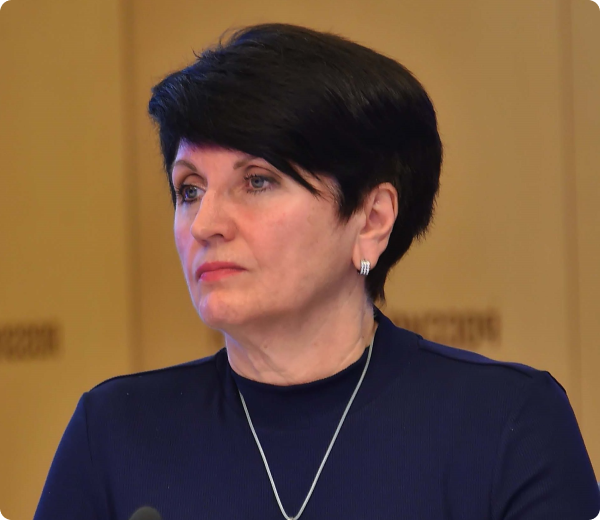
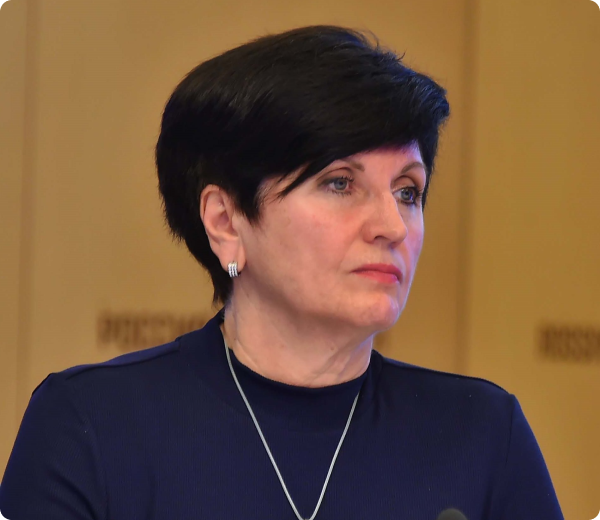
Внесены правки по спикерам и виззуалу

diff --git a/family53/css/style.scss b/family53/css/style.scss
@@ -1042,9 +1042,12 @@
                                                 display: flex;
                                                 align-items: center;
                                                 justify-content: center;
+                                                position: relative;
                                                 .avatar__img {
                                                     width: 100%;
                                                     height: auto;
+                                                    position: absolute;
+                                                    top: 0;
                                                 }
                                             }
                                             .post {
@@ -1976,6 +1979,11 @@
                                             width: 100%;
                                             max-width: 1110px;
                                         }
+                                        iframe {
+                                            width: 100%;
+                                            max-width: 1110px;
+                                            height: 624px;
+                                        }
                                     }
                                 }
                             }
@@ -2160,6 +2168,15 @@
                                     padding-top: 30px;
                                     .page-title {
                                         margin-bottom: 30px;
+                                    }
+                                    .translation-links {
+                                        .day {
+                                            iframe {
+                                                width: 100%;
+                                                max-width: 1110px;
+                                                height: 382px;
+                                            }
+                                        }
                                     }
                                 }
                             }
@@ -2536,6 +2553,15 @@
                                     padding-top: 20px;
                                     .page-title {
                                         margin-bottom: 20px;
+                                    }
+                                    .translation-links {
+                                        .day {
+                                            iframe {
+                                                width: 100%;
+                                                max-width: 1110px;
+                                                height: 258px;
+                                            }
+                                        }
                                     }
                                 }
                             }

diff --git a/family53/css/style.css b/family53/css/style.css
@@ -1437,11 +1437,14 @@ body {
   -webkit-box-pack: center;
       -ms-flex-pack: center;
           justify-content: center;
+  position: relative;
 }
 
 .speakers-block .more-block .more-popup .left .avatar .avatar__img {
   width: 100%;
   height: auto;
+  position: absolute;
+  top: 0;
 }
 
 .speakers-block .more-block .more-popup .left .post {
@@ -2688,6 +2691,12 @@ body {
   max-width: 1110px;
 }
 
+.links-page .translation-links .day iframe {
+  width: 100%;
+  max-width: 1110px;
+  height: 624px;
+}
+
 @media screen and (max-width: 1139px) and (min-width: 768px) {
   .desctop {
     display: none !important;
@@ -2890,6 +2899,11 @@ body {
   }
   .links-page .page-title {
     margin-bottom: 30px;
+  }
+  .links-page .translation-links .day iframe {
+    width: 100%;
+    max-width: 1110px;
+    height: 382px;
   }
 }
 
@@ -3328,6 +3342,11 @@ body {
   }
   .links-page .page-title {
     margin-bottom: 20px;
+  }
+  .links-page .translation-links .day iframe {
+    width: 100%;
+    max-width: 1110px;
+    height: 258px;
   }
 }
 /*# sourceMappingURL=style.css.map */

diff --git a/user-page/index.html b/user-page/index.html
@@ -10,7 +10,7 @@
 </head>
 
 <body>
-    <iframe width="1280" height="720" src="https://www.youtube.com/embed/WrlQw48royo" title="YouTube video player" frameborder="0" allow="accelerometer; autoplay; clipboard-write; encrypted-media; gyroscope; picture-in-picture" allowfullscreen></iframe>
+    <iframe width="1110" height="624" src="https://www.youtube.com/embed/WrlQw48royo" title="YouTube video player" frameborder="0" allow="accelerometer; autoplay; clipboard-write; encrypted-media; gyroscope; picture-in-picture" allowfullscreen></iframe>
     <header class="header  user-account">
         <div class="wrapper top-header desctop">
             <div class="logo"></div>

diff --git a/family53/main-page.php b/family53/main-page.php
@@ -41,7 +41,12 @@ get_header();
                 Желаю всем участникам конференции активной, плодотворной работы, реализации намеченных планов и новых успехов!<br><br>
                 </div>
 
-                <div class="comment-row revers">
+                <div class="comment-row">
+                    <div class="avatar">
+                        <img class="avatar__img" src="<?php print_r(get_template_directory_uri());?>/img/gmv.png" alt="commentator1">
+                        <div class="avatar__name">Гордеева <span class="regular-text">Марина Владимировна</span></div>
+                        <div class="avatar__post">Председатель правления Фонда поддержки детей, находящихся в трудной жизненной ситуации</div>
+                    </div>
                     <div class="comment">
                         <div class="content">
                             <div class="comment__title">
@@ -54,11 +59,6 @@ get_header();
                                 На конференции мы обсуждаем достигнутые результаты и ставим задачи на будущее.
                             </div>
                         </div>
-                    </div>
-                    <div class="avatar">
-                        <img class="avatar__img" src="<?php print_r(get_template_directory_uri());?>/img/gmv.png" alt="commentator1">
-                        <div class="avatar__name">Гордеева <span class="regular-text">Марина Владимировна</span></div>
-                        <div class="avatar__post">Председатель правления Фонда поддержки детей, находящихся в трудной жизненной ситуации</div>
                     </div>
                 </div>
                 <div class="comment-ps">
@@ -266,8 +266,8 @@ get_header();
                                                 <img src="<?php print_r(get_template_directory_uri());?>/img/icons/speaker.svg" alt="">
                                             </div>
                                             <div class="speaker__description">
-                                                <div class="post">начальник Главного управления социальной защиты населения Курганской области</div>
-                                                <div class="name">Золотухина Анастасия Евгеньевна</div>
+                                                <div class="post">начальник отдела по делам семьи и детей Главного управления социальной защиты населения Курганской области</div>
+                                                <div class="name">Синёва Елена Андреевна</div>
                                             </div>
                                         </div>
                                     </div>
@@ -541,10 +541,8 @@ get_header();
                                                 <img src="<?php print_r(get_template_directory_uri());?>/img/icons/speaker.svg" alt="">
                                             </div>
                                             <div class="speaker__description">
-                                                                <div class="post">исполняющий обязанности Министра семейной, 
-демографической политики и социального благополучия Ульяновской 
-области</div>
-                                                                <div class="name">Исаева Наталья Сергеевна</div>
+                                                                <div class="post">первый заместитель министра семейной, демографической политики и социального благополучия Ульяновской области</div>
+                                                                <div class="name">Тверскова Анна Александровна</div>
                                                             </div>
                                         </div>
                                     </div>

diff --git a/family53/translation.php b/family53/translation.php
@@ -14,6 +14,7 @@ get_header();
             <div class="translation-links">
                 <a class="day" id="first_day">
                     <img src="<?php print_r(get_template_directory_uri());?>/img/icons/1day.svg" alt="">
+                    <!-- <iframe src="https://www.youtube.com/embed/WrlQw48royo" title="YouTube video player" frameborder="0" allow="accelerometer; autoplay; clipboard-write; encrypted-media; gyroscope; picture-in-picture" allowfullscreen></iframe> -->
                 </a>
                 <a class="day" id="second_day">
                     <img src="<?php print_r(get_template_directory_uri());?>/img/icons/2day.svg" alt="">
